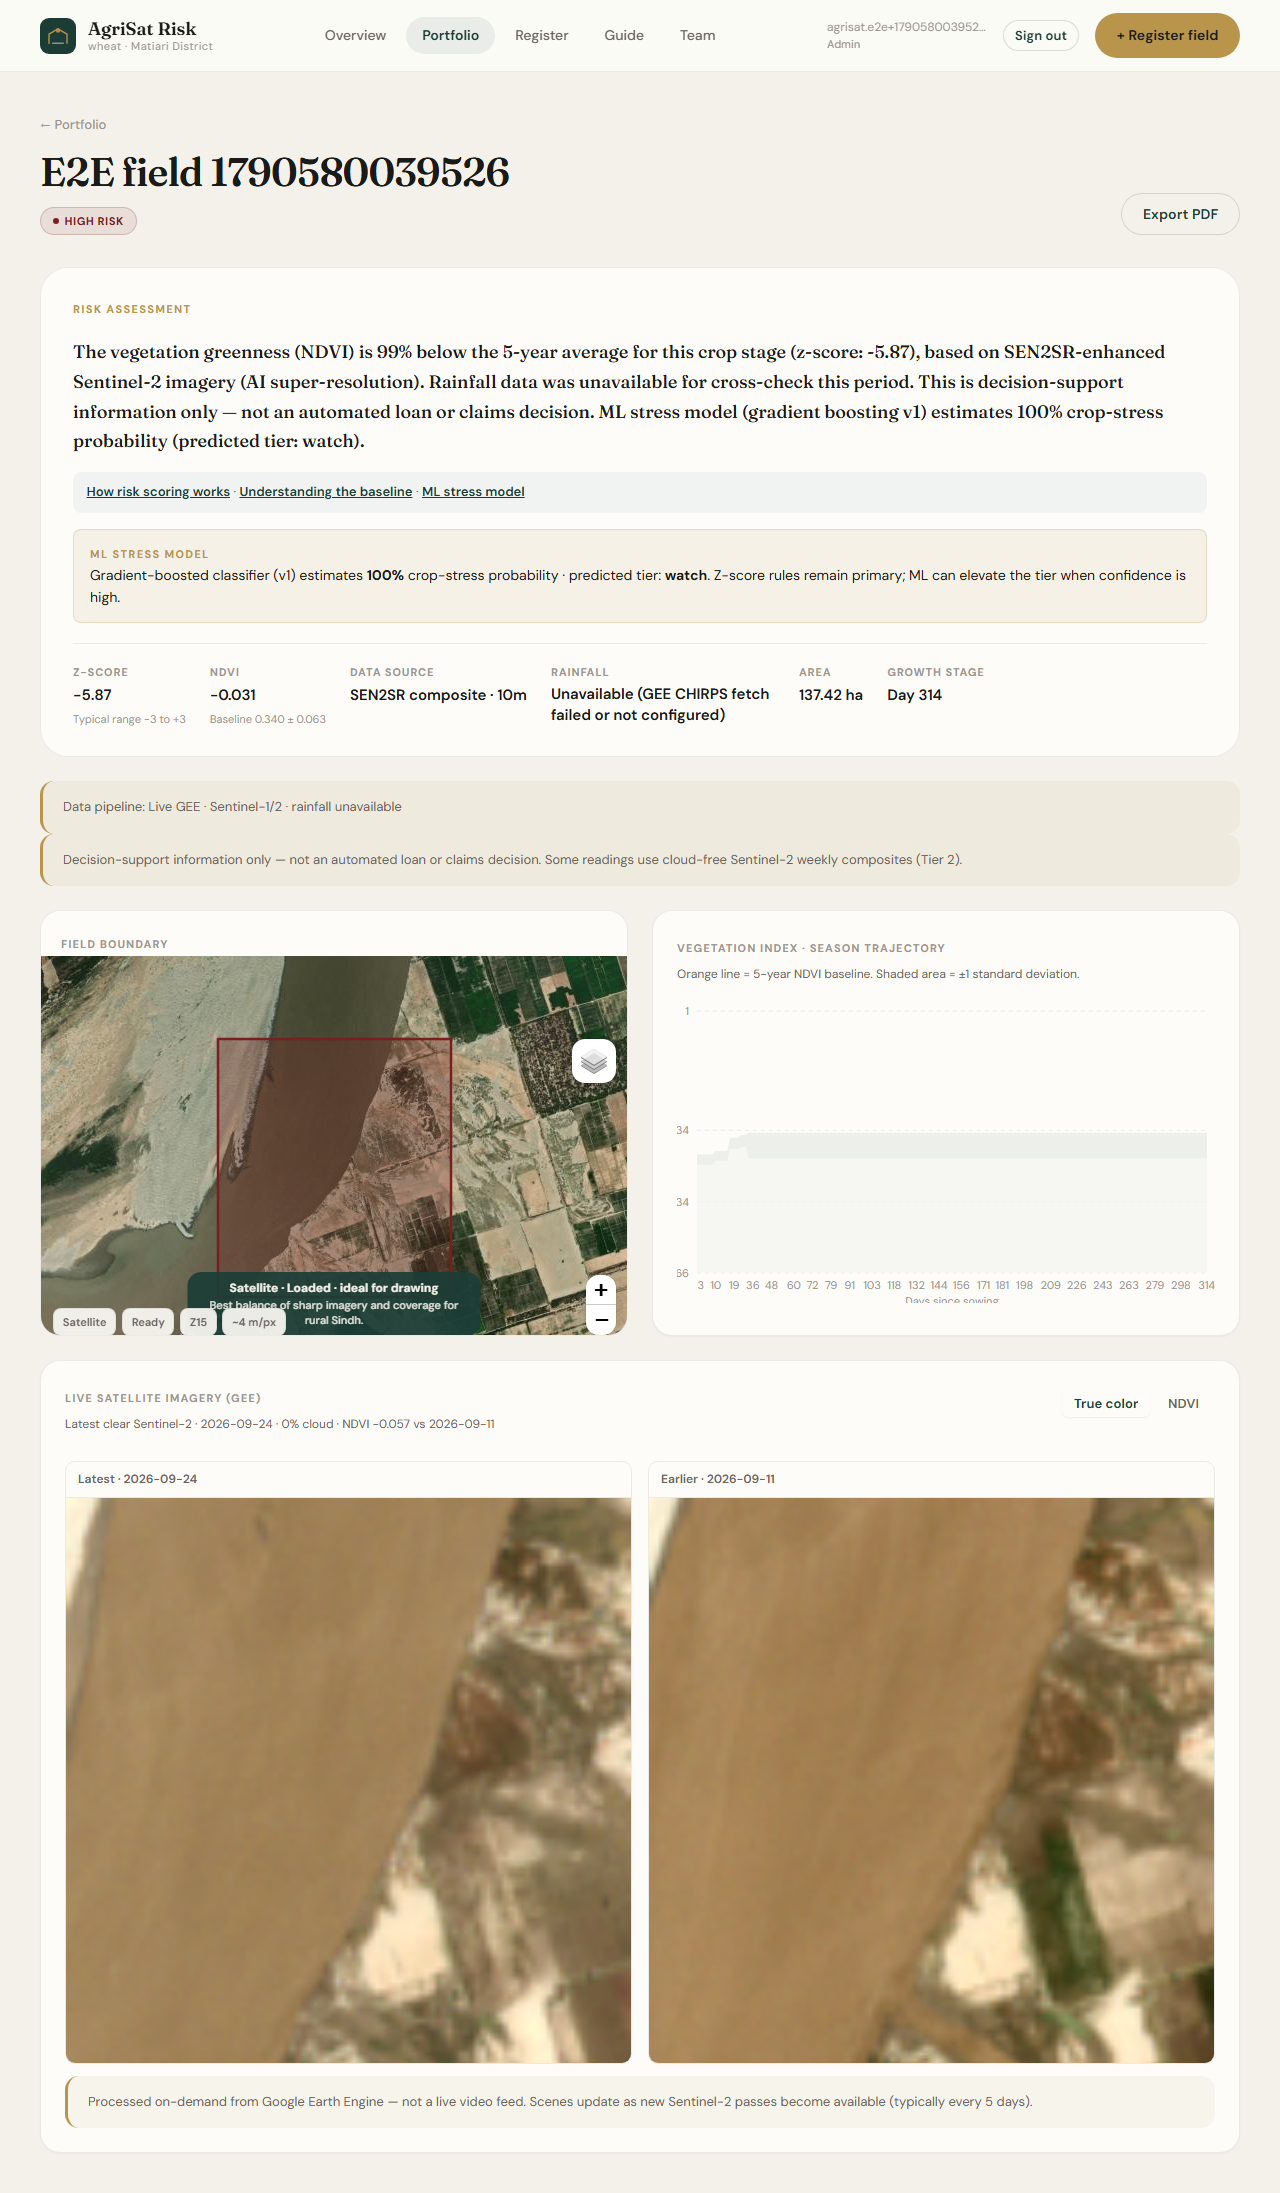
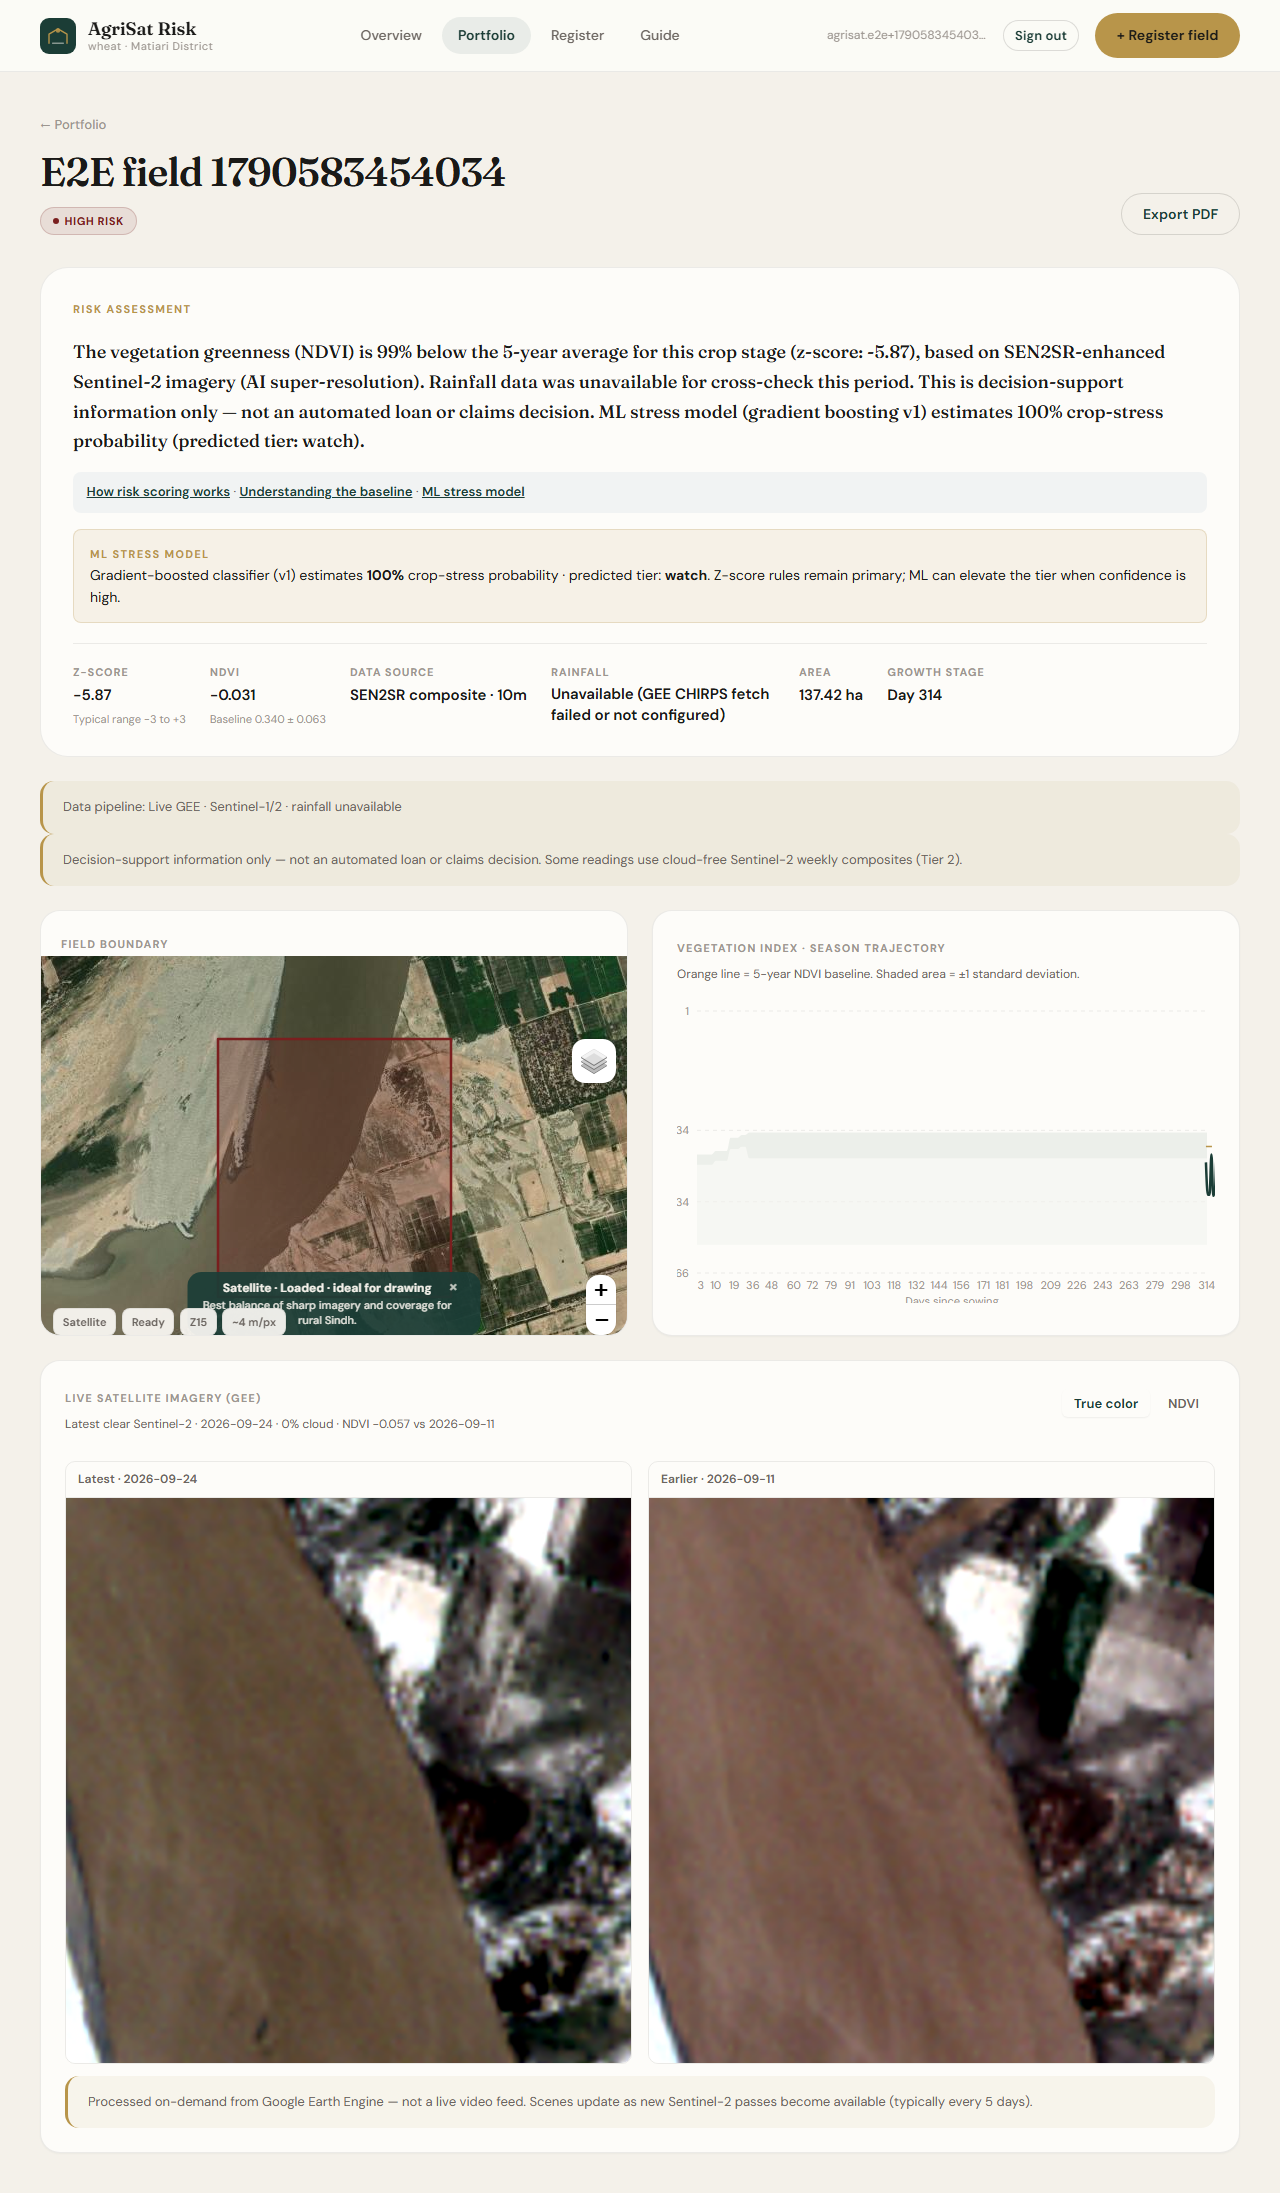
docs: refresh walkthrough screenshots with the sharpened imagery, record the fix

diff --git a/CHANGELOG.md b/CHANGELOG.md
@@ -13,6 +13,7 @@ Notable changes to AgriSat Risk, grouped by milestone. Format loosely follows [K
   - **The "Hybrid" basemap registered as two duplicate entries in the layer switcher** — two sibling `TileLayer`s under one `LayersControl.BaseLayer` register as two separate control entries in react-leaflet. Fixed by grouping them so they toggle together as one layer.
 - Added a new "Map" basemap (Esri `World_Street_Map`, free, no key) with legible town/village names, roads, and landmarks — for identifying where a field actually is, distinct from the existing minimal "Street" overview layer.
 - Cleaned up the map layer switcher's styling — it was unintentionally inheriting the site-wide uppercase/letter-spaced form-label style from Leaflet's own internal `<label>` markup, making it look like an oversized shouty block list; now a compact, normal-case menu. Also made the map status banner (the dark-green "boundary closed"/draw-hint message) dismissible with a close button, since it can sit over parts of the map a user wants to see.
+- Fixed blurry live field imagery (`gee_imagery.py`): sampling Sentinel-2's ~10m visible bands directly for a typical field produced arrays as small as a few dozen pixels per side, stretched by the browser to fill the display. Now resamples server-side (bicubic, in GEE) to a scale chosen from the field's own footprint, applies a per-band contrast stretch to the scene's actual reflectance range (replacing one fixed window that looked over/under-exposed depending on scene content), and finishes with a light sharpening pass — all display-quality processing on the real sampled pixels, not a learned reconstruction. Also removed a redundant duplicate GEE sample per scene along the way.
 - Fixed essentially every other item in `docs/AUDIT-FINDINGS.md` that was fixable by editing code: N+1 queries in portfolio report generation, the in-memory job queue's crash recovery (a reconciliation sweep for stuck `processing` fields), a latent IDOR trap in `process_field`, GEE health-check caching/retry behavior, unauthenticated info-disclosure on `/health/gee`, several frontend UX/reliability gaps, and a round of dead-code cleanup. See the doc for the full, itemized list — what's left open is explicitly a process/product decision, not an oversight.
 - Confirmed as an explicit, correct-for-now decision: Google Earth Engine's noncommercial tier is appropriate while AgriSat has no paying institution and is operating as research/development — revisit before any commercial launch (see `docs/FREE-VS-PAID-RESOURCES.md`).
 

diff --git a/docs/WALKTHROUGH.md b/docs/WALKTHROUGH.md
@@ -10,6 +10,8 @@ A field was registered via a GeoJSON boundary upload near the Indus channel in M
 
 Worth pointing out, since it's easy to miss in a screenshot: this field landed **HIGH RISK** because the test boundary happens to sit mostly over the river channel, not cropland — a legitimate result, not a bug. It's a good demonstration that the pipeline actually reacts to what's really on the ground rather than always returning a placeholder value. Also visible: the **ML stress model** note ("predicted tier: watch") correctly did *not* override the z-score's HIGH classification — a live confirmation that the elevate-only design (see `docs/USER-FLOW.md` §7) behaves as documented: the ML layer can only push risk up, never down, and here it had nothing to add since the z-score was already higher.
 
+The satellite thumbnails themselves are sharper than an earlier version of this screenshot — Sentinel-2's visible bands are natively ~10m/pixel, and sampling a field at that scale directly (the old behavior) produced arrays as small as a few dozen pixels per side, stretched to fill the display. `gee_imagery.py` now resamples server-side (bicubic, in GEE) to a scale chosen from the field's own footprint, applies a per-band contrast stretch to the scene's actual reflectance range instead of one fixed window, and finishes with a light sharpening pass. All of that works on the real sampled pixels — it's display-quality processing, not a learned/hallucinated reconstruction, so what you see is still a faithful (if smoothed) rendering of the actual Sentinel-2 data, not invented detail.
+
 ## 2. Portfolio — desktop
 
 `docs/AUDIT-FINDINGS.md` item #20 asked whether the fields-list page's dual card/table markup (one for mobile, one for desktop, toggled by a CSS media query) actually behaves correctly rather than both rendering at once. Confirmed live at 1280px width — the table renders, the card list doesn't:
